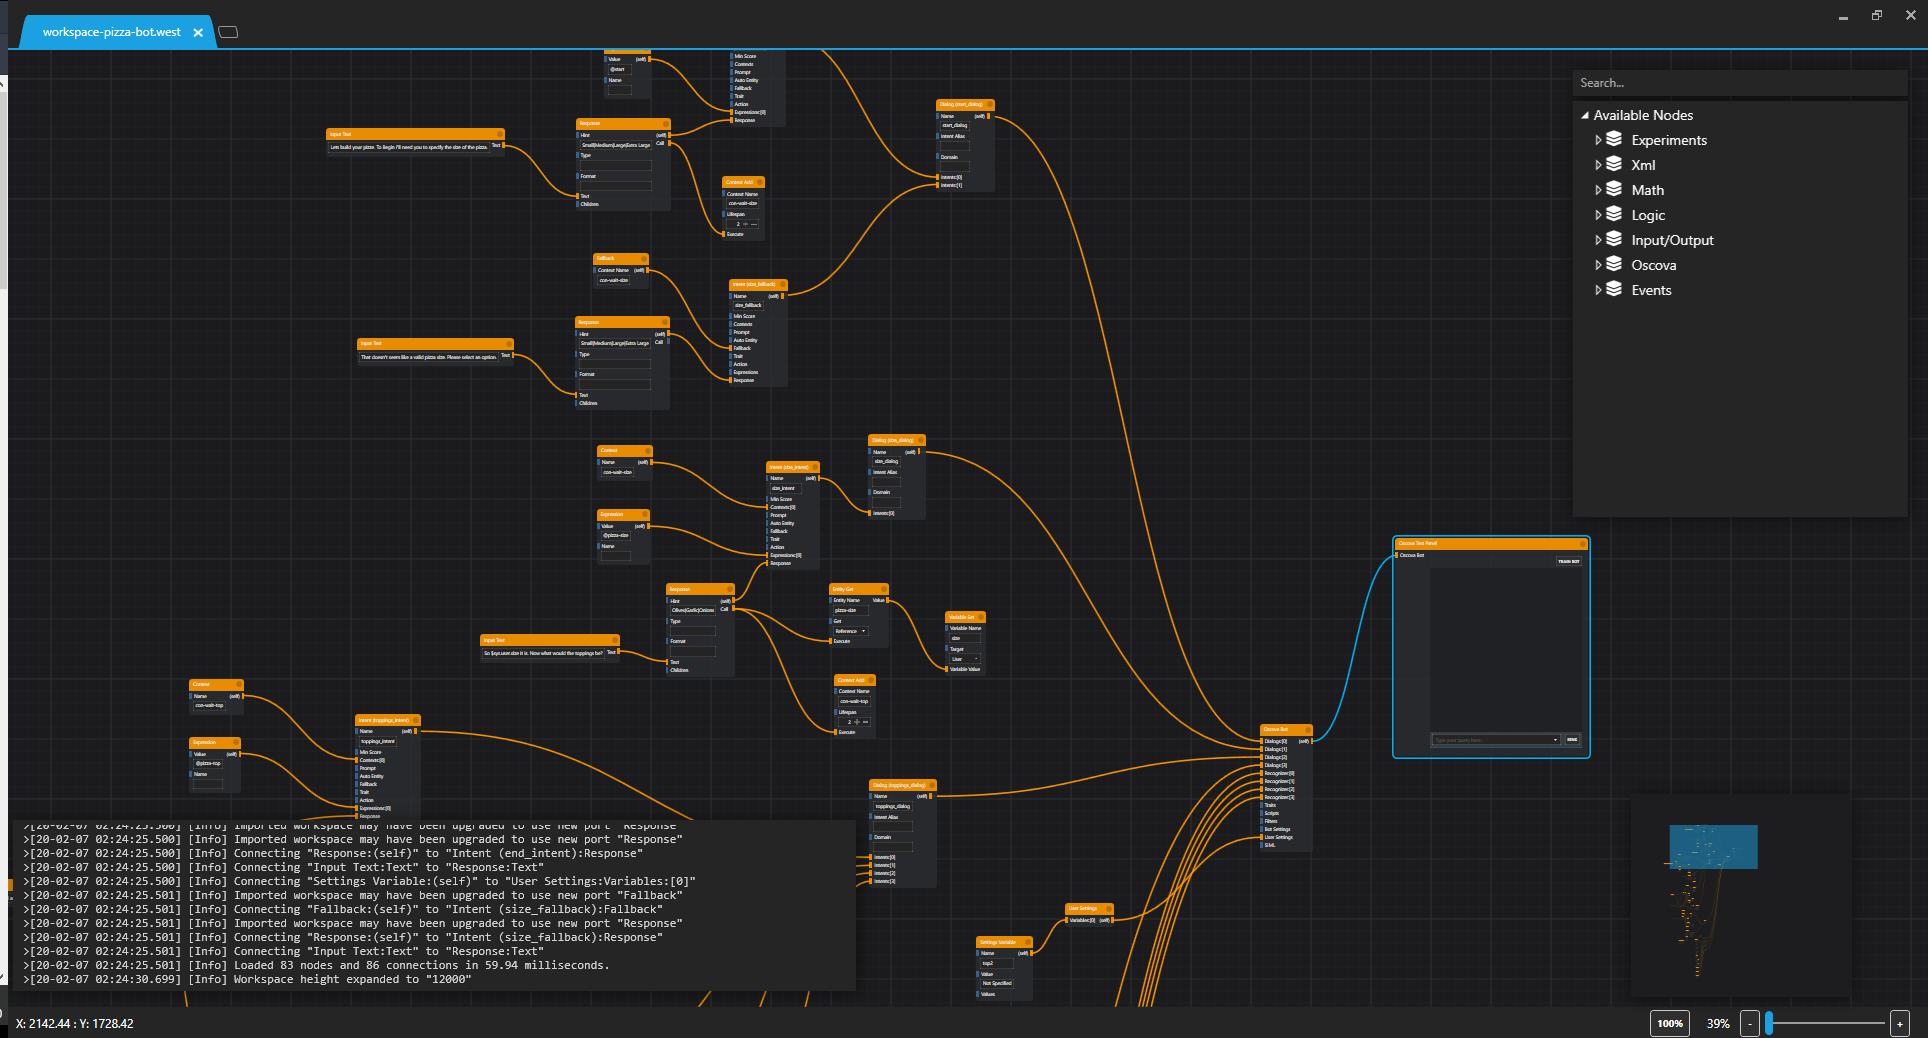
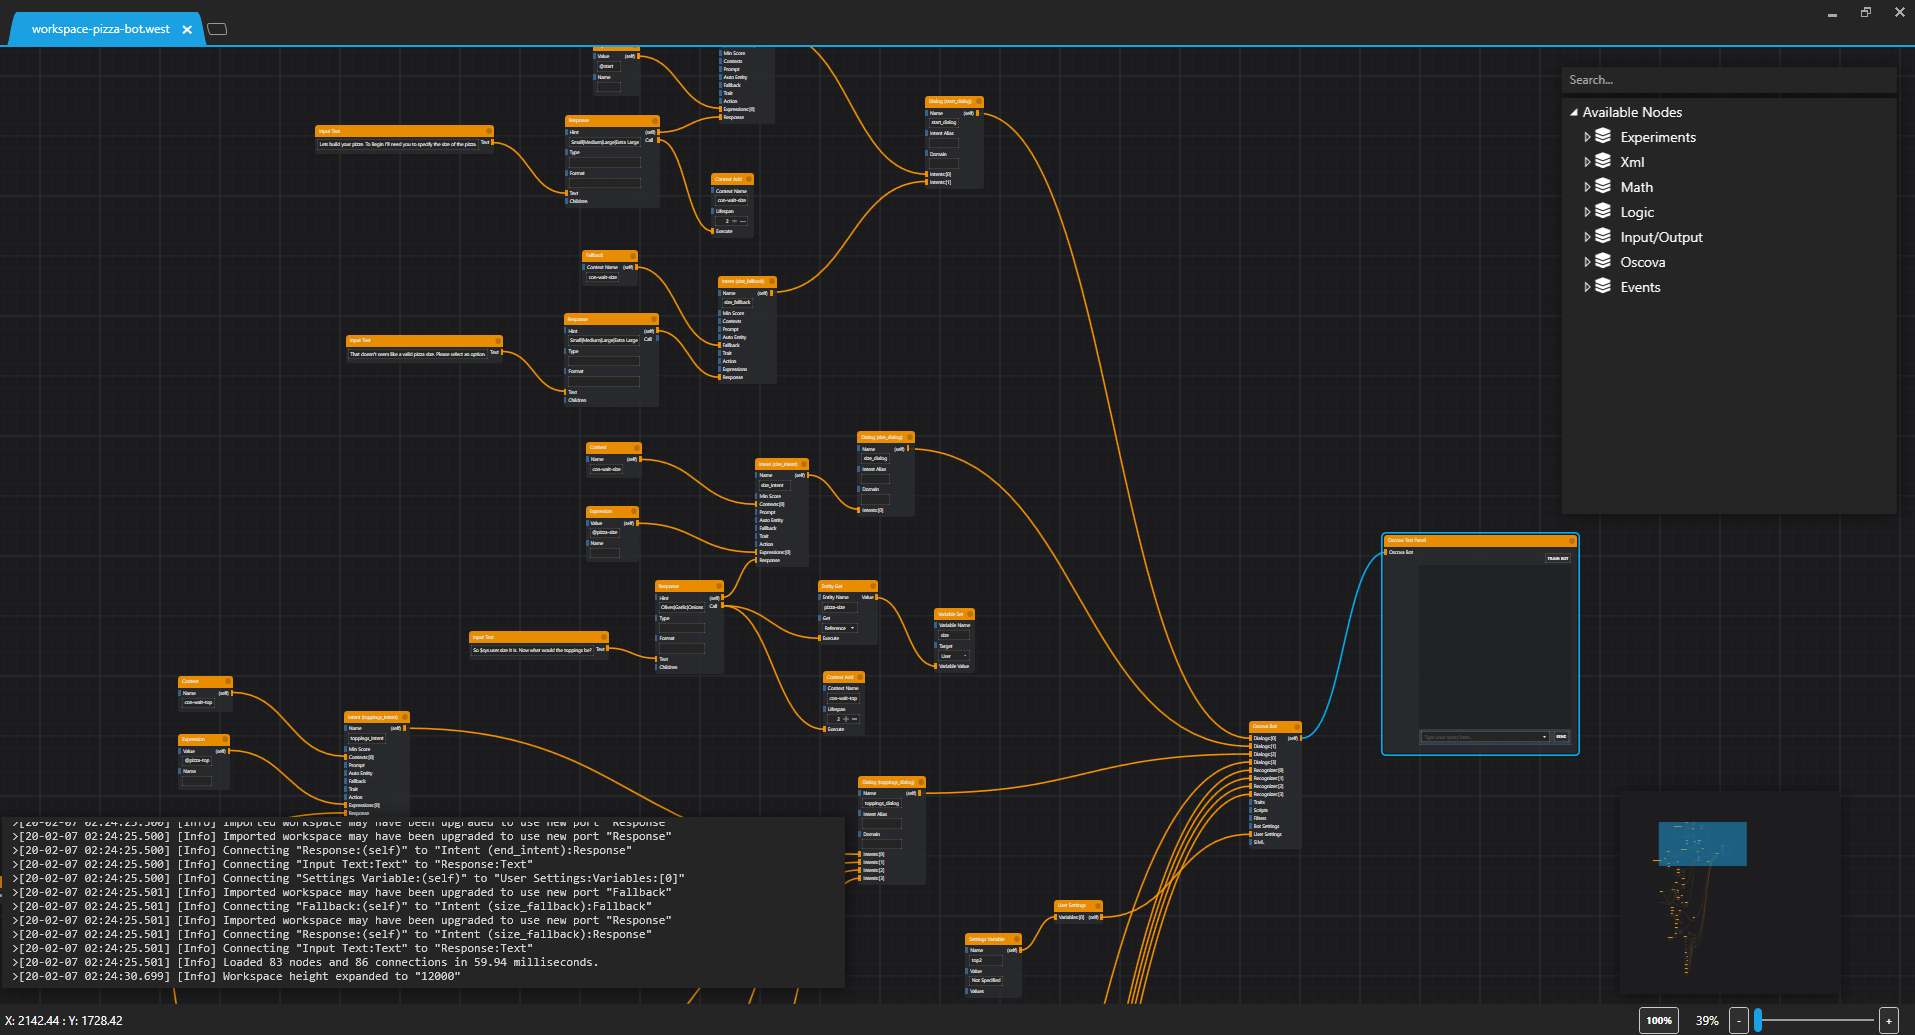
Fixed workspace image display

diff --git a/README.md b/README.md
@@ -2,22 +2,22 @@
 
 This repository contains samples related to Syn Bot Development framework.
 
-## 1. Natural Language Interface to Database
-
-A demostration of how developers can use SIML or Oscova to create a natural language interface to database.
-
-**Note:** Build both the projects in `Debug` mode.
-
-### Workspace Pizza Bot
+## 1. Workspace Pizza Bot
 
 This project shows how one can build a simple pizza bot without a single line of coding or scripting in SIML. The project purely uses Workspace nodes to build a pizza bot.
 
-[Workspace Pizza Bot](workspace-pizza-bot.png)
+![Workspace Pizza Bot](workspace-pizza-bot.png)
 
 To work with the Workspace project.
 
 * Click the `Train Bot` button on Oscova Test Panel
 * And type `start` as the first user message.
+
+## 2. Natural Language Interface to Database
+
+A demostration of how developers can use SIML or Oscova to create a natural language interface to database.
+
+**Note:** Build both the projects in `Debug` mode.
 
 ### Oscova
 
@@ -40,14 +40,14 @@ The knowledge-base of this project also implements an intelligent suggestion sys
 
 Projects under this repository are dual licensed under: MIT and [CPOL](http://www.codeproject.com/info/cpol10.aspx)
 
-## 2. Oscova Android Bot
+## 3. Oscova Android Bot
 
 This project demonstrates the very basic concepts of creating an Android Bot in C# using Oscova.
 
 ### Watch the Tutorial on YouTube
 [![IMAGE ALT TEXT HERE](https://img.youtube.com/vi/r_yMLAO2mBQ/0.jpg)](https://www.youtube.com/watch?v=r_yMLAO2mBQ)
 
-## 3. Sample Oscova Bot
+## 4. Sample Oscova Bot
 
 This is a sample App Bot developed using Oscova. You may download this repository to understand the basics covered in the Oscova tutorials section.
 
@@ -63,7 +63,7 @@ The project covers the following:
 ### Watch the Tutorial on YouTube
 [![IMAGE ALT TEXT HERE](https://img.youtube.com/vi/tqKd4seDi6c/0.jpg)](https://www.youtube.com/watch?v=tqKd4seDi6c)
 
-## 4. OSCOVA Excel Bot
+## 5. OSCOVA Excel Bot
 
 This sample project demonstrates incorporation of OSCOVA based bot directly within Office Excel via VSTA Add-In Project.
 
